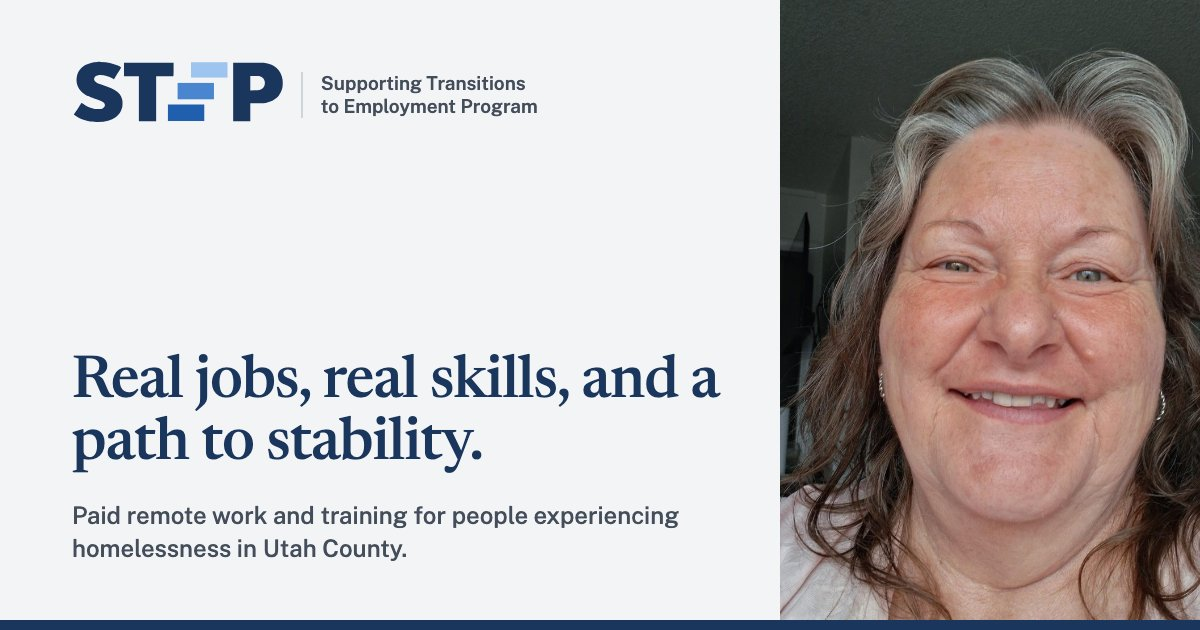
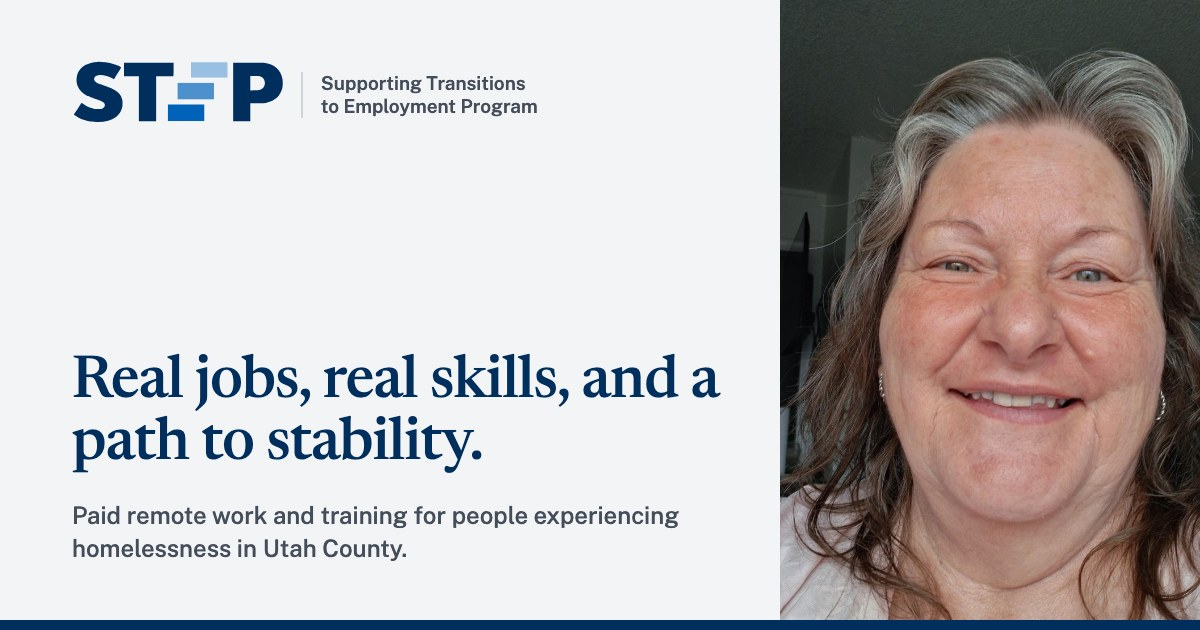
Switch site palette to BYU navy and royal blue

diff --git a/assets/css/styles.css b/assets/css/styles.css
@@ -7,17 +7,17 @@
   --paper-2: #f3f4f6;
   --rule: #cfd4db;
   --rule-soft: #e1e4e9;  /* outline for white panels */
-  --forest: #1b365d;     /* deep blue: headings, header, dark sections */
-  --forest-2: #142a49;
-  --green: #1f5fae;      /* blue: links, buttons (5.8:1; white on it 6.4:1) */
-  --green-dark: #184c8c;
-  --teal: #4a86cf;
-  --step-1: #1f5fae;     /* logo bars, bottom to top */
-  --step-2: #4a86cf;
-  --step-3: #9ec5f0;
-  --step-2-text: #1f5fae; /* readable blue for small text (5.2:1+) */
-  --clay: #2f6fd0;       /* accent blue: large numerals, rules */
-  --clay-text: #1f5fae;  /* small accent text on light backgrounds (5.2:1+) */
+  --forest: #002e5d;     /* BYU navy: headings, header, dark sections */
+  --forest-2: #002246;
+  --green: #0062b8;      /* BYU royal: links, buttons (6.1:1; white on it 6.1:1) */
+  --green-dark: #004a8a;
+  --teal: #4c91cd;
+  --step-1: #0062b8;     /* logo bars, bottom to top */
+  --step-2: #4c91cd;
+  --step-3: #99c0e3;
+  --step-2-text: #0062b8; /* readable blue for small text (5.2:1+) */
+  --clay: #1a74c4;       /* accent blue: large numerals, rules */
+  --clay-text: #0062b8;  /* small accent text on light backgrounds (5.2:1+) */
   --label-on-dark: #b9d3f2; /* small text on dark blue (7.9:1) */
 
   --serif: "Newsreader", Georgia, "Times New Roman", serif;
@@ -25,8 +25,8 @@
 
   --radius: 6px;
   --radius-lg: 14px;
-  --shadow-sm: 0 1px 2px rgba(27, 54, 93, 0.05), 0 2px 8px rgba(27, 54, 93, 0.04);
-  --shadow: 0 1px 3px rgba(27, 54, 93, 0.05), 0 8px 22px rgba(27, 54, 93, 0.08);
+  --shadow-sm: 0 1px 2px rgba(0, 46, 93, 0.05), 0 2px 8px rgba(0, 46, 93, 0.04);
+  --shadow: 0 1px 3px rgba(0, 46, 93, 0.05), 0 8px 22px rgba(0, 46, 93, 0.08);
   --ease: cubic-bezier(0.22, 0.61, 0.36, 1);
   --container: 1160px;
   --gutter: 24px;
@@ -95,8 +95,8 @@ strong { font-weight: 600; }
 }
 .btn--primary { background: var(--green); color: #fff; }
 /* Donate sits on the dark header: light blue with dark text so it stands out (6.8:1) */
-.btn--donate { background: #9ec5f0; color: var(--forest); }
-.btn--donate:hover { background: #b8d6f5; color: var(--forest); }
+.btn--donate { background: #99c0e3; color: var(--forest); }
+.btn--donate:hover { background: #b4d1ec; color: var(--forest); }
 .btn--primary:hover { background: var(--green-dark); color: #fff; }
 .btn--light { background: #fff; color: var(--forest); }
 .btn--light:hover { background: var(--paper-2); color: var(--forest); }
@@ -114,7 +114,7 @@ strong { font-weight: 600; }
   background: var(--forest); color: #fff;
   transition: box-shadow 0.25s;
 }
-.site-header.is-scrolled { box-shadow: 0 2px 10px rgba(27, 54, 93, 0.16); }
+.site-header.is-scrolled { box-shadow: 0 2px 10px rgba(0, 46, 93, 0.16); }
 .site-header__inner { position: relative; display: flex; align-items: center; gap: 28px; min-height: var(--header-h); }
 .brand { display: flex; align-items: center; gap: 14px; color: #fff; text-decoration: none; }
 .brand__logo { width: auto; height: 32px; }
@@ -161,7 +161,7 @@ strong { font-weight: 600; }
     display: none; position: absolute; top: 100%; left: 0; right: 0; margin: 0;
     flex-direction: column; align-items: stretch; gap: 0;
     background: var(--forest); border-top: 1px solid rgba(255, 255, 255, 0.15);
-    box-shadow: 0 10px 20px rgba(27, 54, 93, 0.18);
+    box-shadow: 0 10px 20px rgba(0, 46, 93, 0.18);
     padding: 8px var(--gutter) 20px;
   }
   .nav.is-open { display: flex; }
@@ -214,7 +214,7 @@ strong { font-weight: 600; }
 .hc__dot { width: 20px; height: 22px; padding: 0; border: 0; background: none; cursor: pointer; display: grid; place-items: center; }
 .hc__dot span { display: block; width: 7px; height: 7px; border-radius: 50%; background: #c3cad3; transition: background 0.2s; }
 .hc__dot:hover span { background: #9aa3ae; }
-.hc__dot.is-active span { background: #6f8fbf; }
+.hc__dot.is-active span { background: #5999d1; }
 /* Small previous/next arrows on the sides of the photo */
 .hc__nav {
   position: absolute; top: 50%; z-index: 2; transform: translateY(-50%);
@@ -581,7 +581,7 @@ strong { font-weight: 600; }
 .stair__bar {
   height: 76px; border-radius: 3px; margin-bottom: 22px; padding: 0 22px;
   display: flex; align-items: center; color: #fff; font: 700 2.6rem/1 var(--sans);
-  box-shadow: 0 4px 12px rgba(27, 54, 93, 0.08);
+  box-shadow: 0 4px 12px rgba(0, 46, 93, 0.08);
 }
 .stair--1 .stair__bar { background: var(--step-1); }
 .stair--2 .stair__bar { background: var(--step-2); }

diff --git a/src/layout.html b/src/layout.html
@@ -16,7 +16,7 @@
   <meta property="og:image:height" content="630">
   <meta property="og:image:alt" content="{{ og_image_alt }}">
   <meta name="twitter:card" content="summary_large_image">
-  <meta name="theme-color" content="#1b365d">
+  <meta name="theme-color" content="#002e5d">
   <meta name="build" content="{{ build }}" data-version-url="{{ base }}version.json">
   {{ robots }}
   <link rel="icon" href="{{ base }}assets/img/logo-mark.svg?v={{ version.icon }}" type="image/svg+xml">
